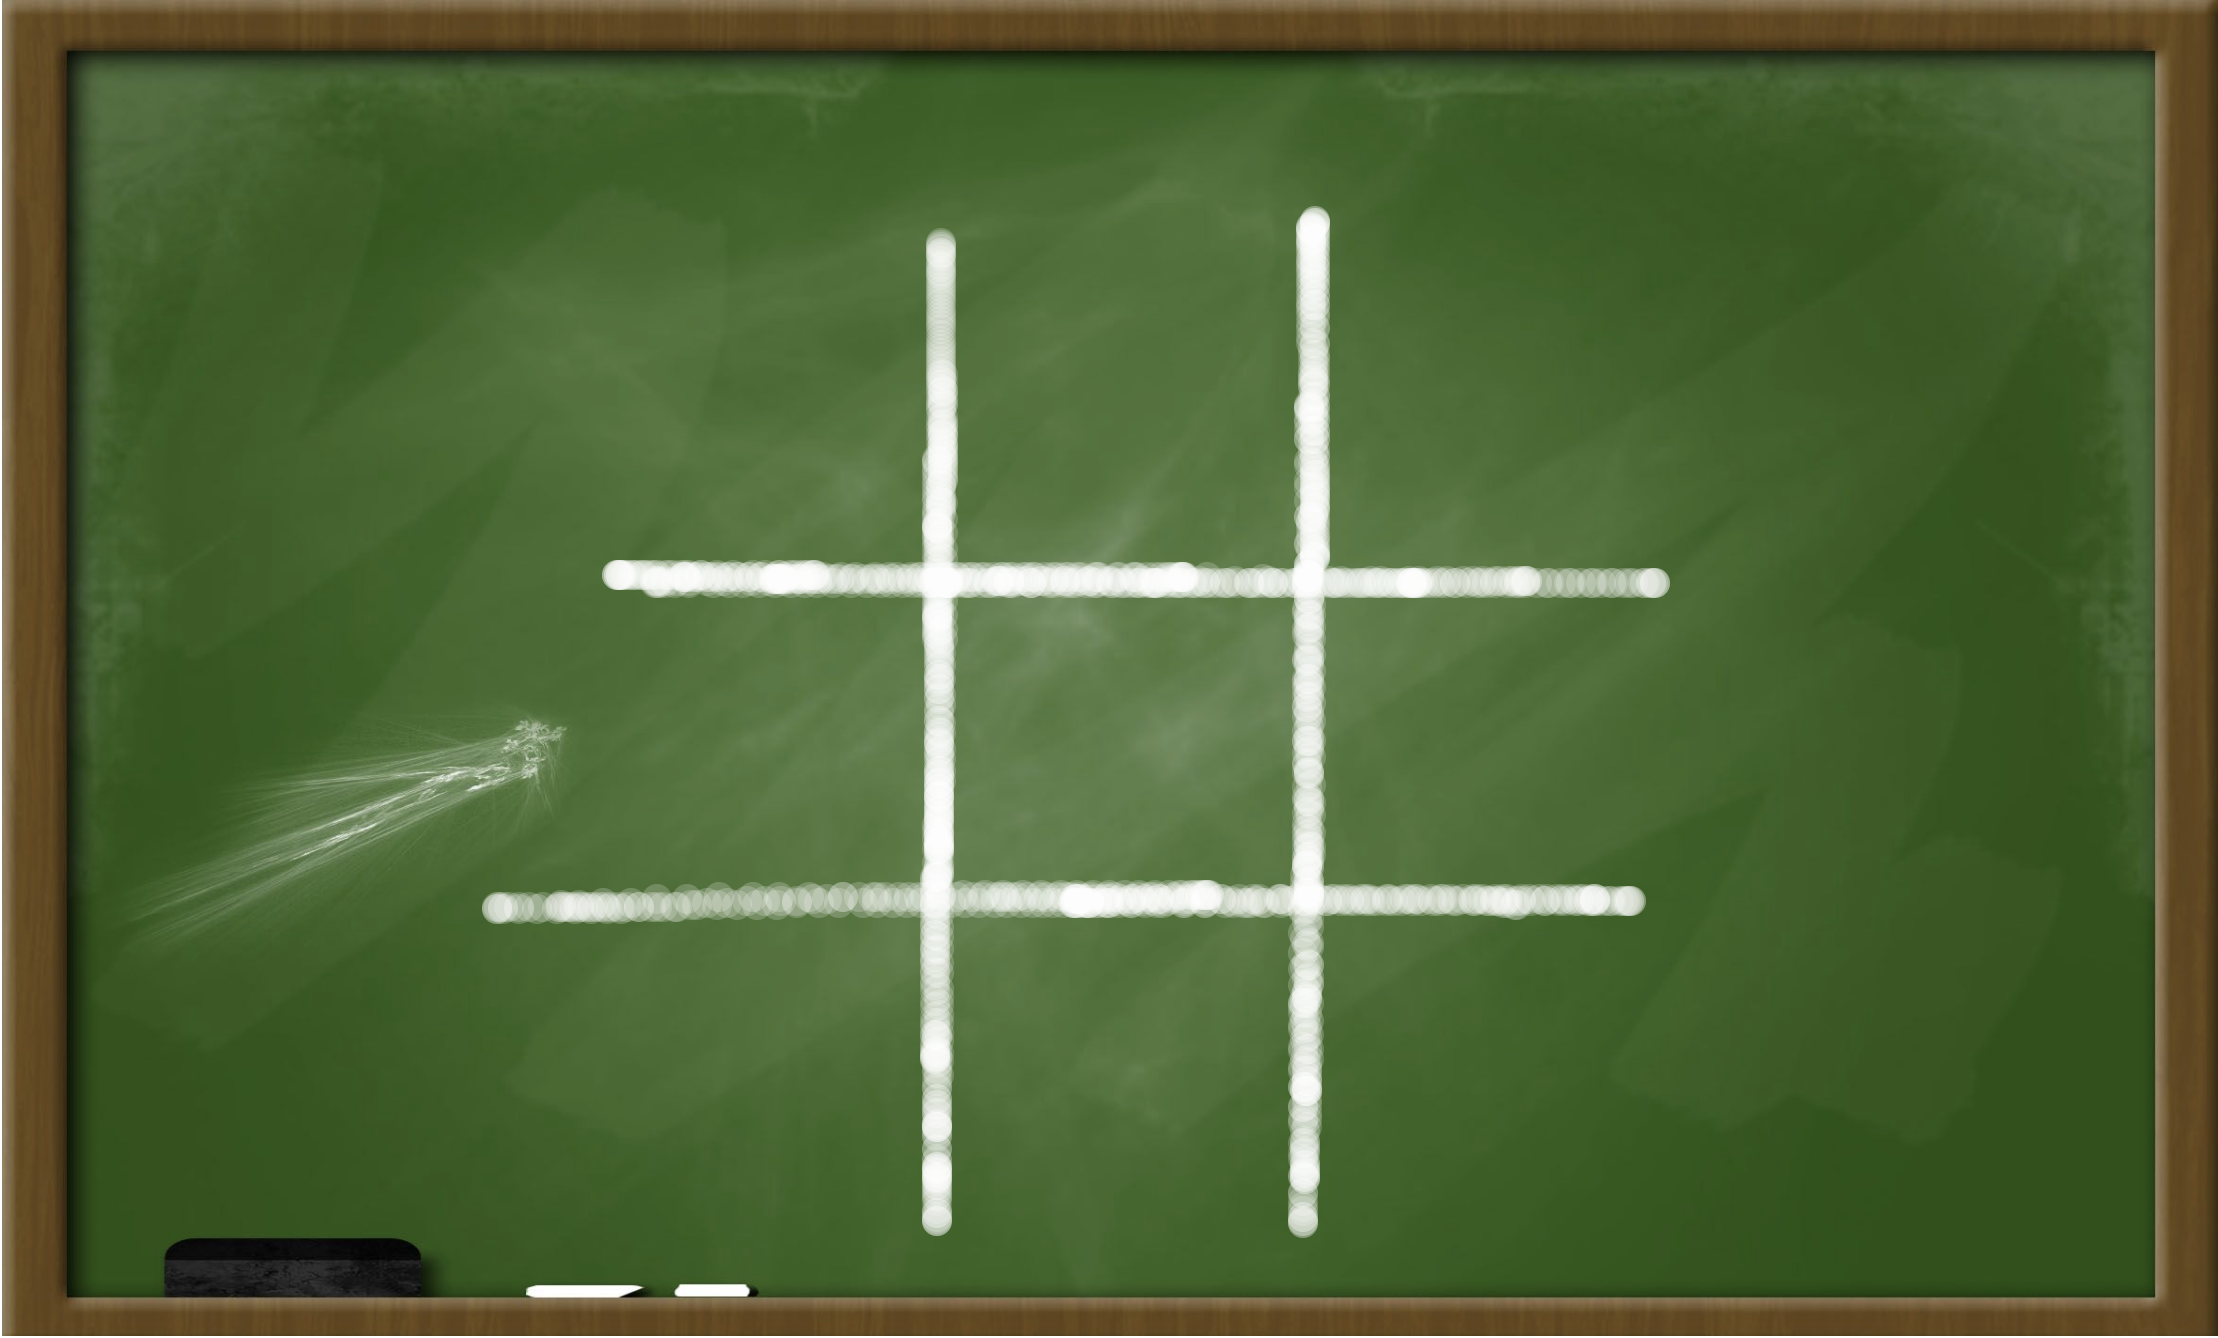
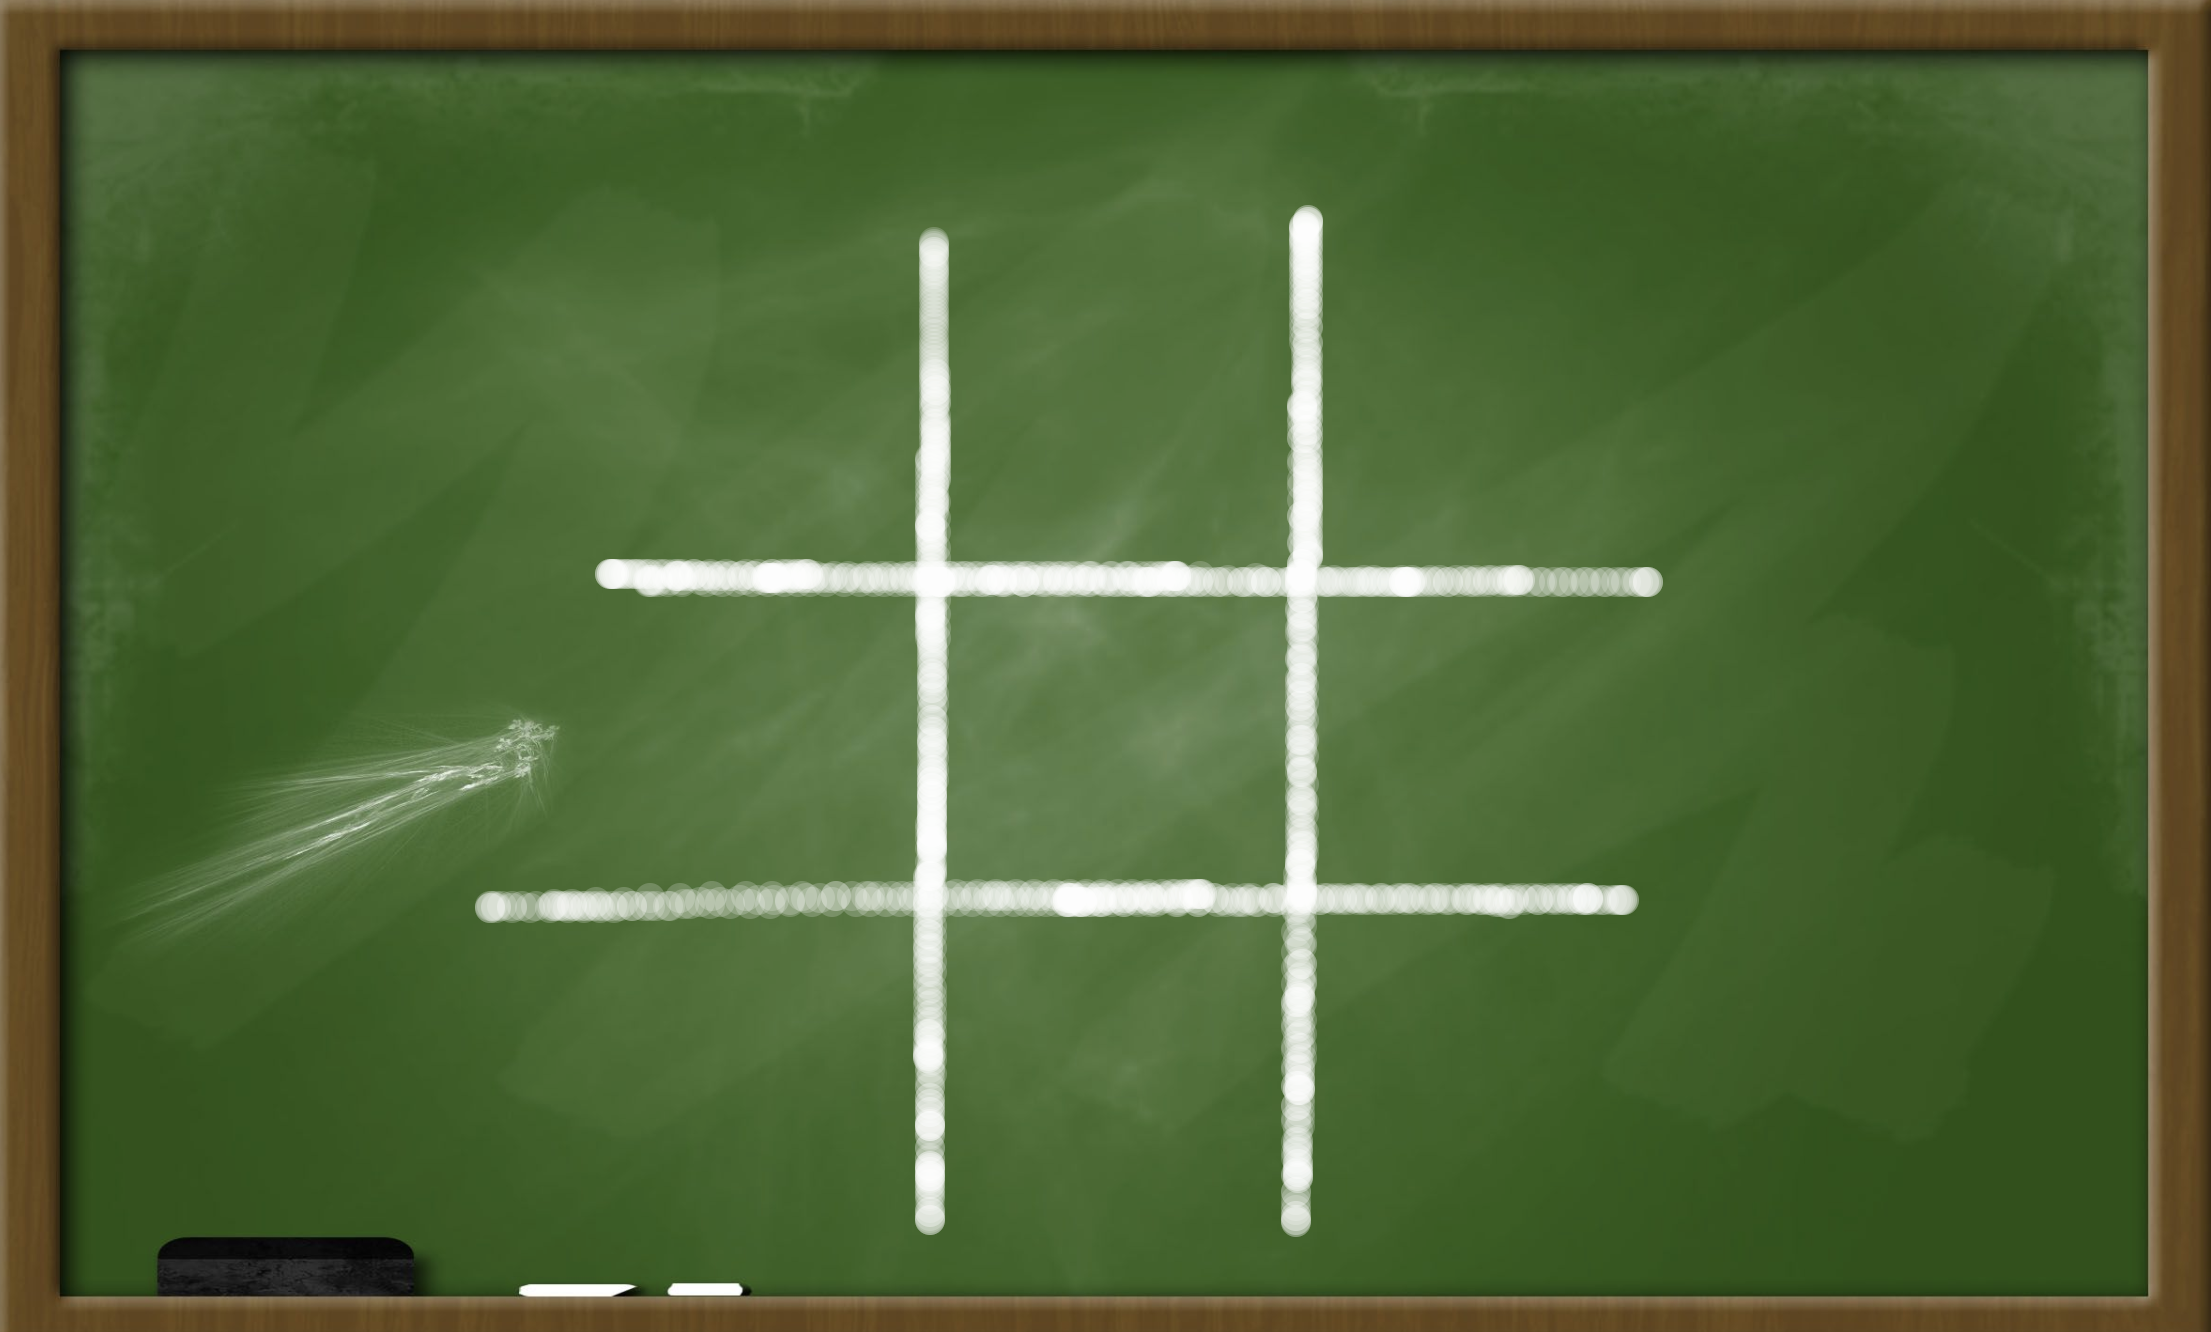
1st mvp

diff --git a/css/style-two.css b/css/style-two.css
@@ -5,7 +5,7 @@
 }
 html {
 
-  background-color: darkgoldenrod;
+  background-image: url(../images/htmlBackground1);
 
 }
 body {
@@ -34,6 +34,7 @@ h3 {
 }
 p {
   display: inline-block;
+  margin: 0;
 }
 
 h1 {
@@ -102,6 +103,7 @@ li {
   text-align: center;
   opacity: 0.7;
   color: white;
+  cursor: pointer;
 
 }
 /* CSS rules */
@@ -120,12 +122,14 @@ ol {
 #scoreboard h1 {
 
   font-size: 30px;
+  display: inline-block;
+  margin: 3px;
 
 }
 #scoreboard {
 
+  text-align: left;
   letter-spacing: 3px;
-  /* margin-left: 2px; */
   height: 300px;
   width: 100%;
   background-image: url(../images/chalkboard.png);
@@ -134,6 +138,7 @@ ol {
   color: white;
   border: 4px solid black;
   border-radius: 3px;
+
 }
 
 #xScore p, #oScore p{
@@ -145,14 +150,14 @@ ol {
 
 .board  {
 
-  text-align: right;
   font-size: 30px;
-  margin: 0;
+
 
 }
 
 #xScore, #yScore {
 
+  margin: 0;
   width: 49%;
 
 
@@ -160,8 +165,8 @@ ol {
 
 #flash {
 
+
   text-align: center;
-  margin: 0 5px;
   display: none;
   width: 200px;
 

diff --git a/js/split.js b/js/split.js
@@ -104,7 +104,7 @@ $(document).ready(function (  ){
     ticTacToe.play(clickPosition)
 
   });
-
+  // event handler restart game
   $('#flash').on('click', function (){
 
 
@@ -112,9 +112,9 @@ $(document).ready(function (  ){
     ticTacToe.reset( gameOver )
 
   })
-
+  // switch boards to draw own baord
   $('.screenChange').on('click', function (){
     // $('div.gridPredrawn').toggleClass('.grid-1')
     $('#game').toggleClass('gridPredrawn').toggleClass('grid-1');
   })
-})
+})  

diff --git a/index.html b/index.html
@@ -41,6 +41,7 @@
 
     <div class="gridPredrawn" id="game">
       <h1 id="heading">Tic-Tac-Toe</h1>
+
       <div class="container">
         <div class="row-1">
           <div class="box" id="boxOne" x="0" y="0"></div>
@@ -62,5 +63,6 @@
     <div  class="screenChange" id="">
         <p>Draw your own board.. Click here!!</p>
     </div>
+
   </body>
 </html>

diff --git a/js/drawLines.js b/js/drawLines.js
@@ -37,7 +37,7 @@ $(document).ready(function () {
 
   $(document).on('keypress', function (event){
 
-    if (event.key === 'u')
+    if (event.key === ' ')
 
     $('div.blob').remove()
 
